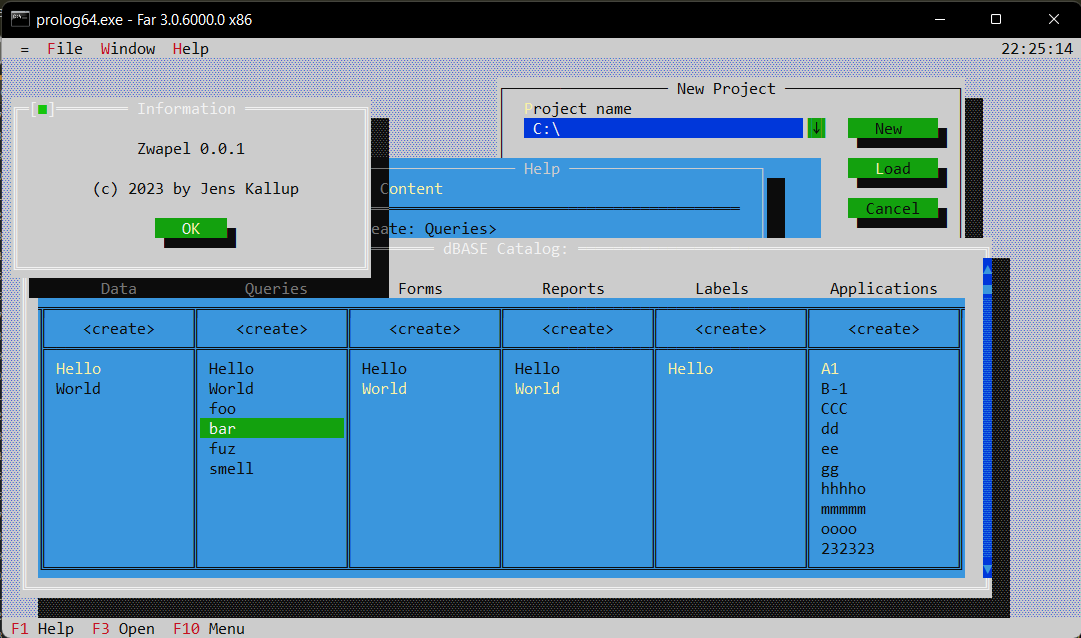
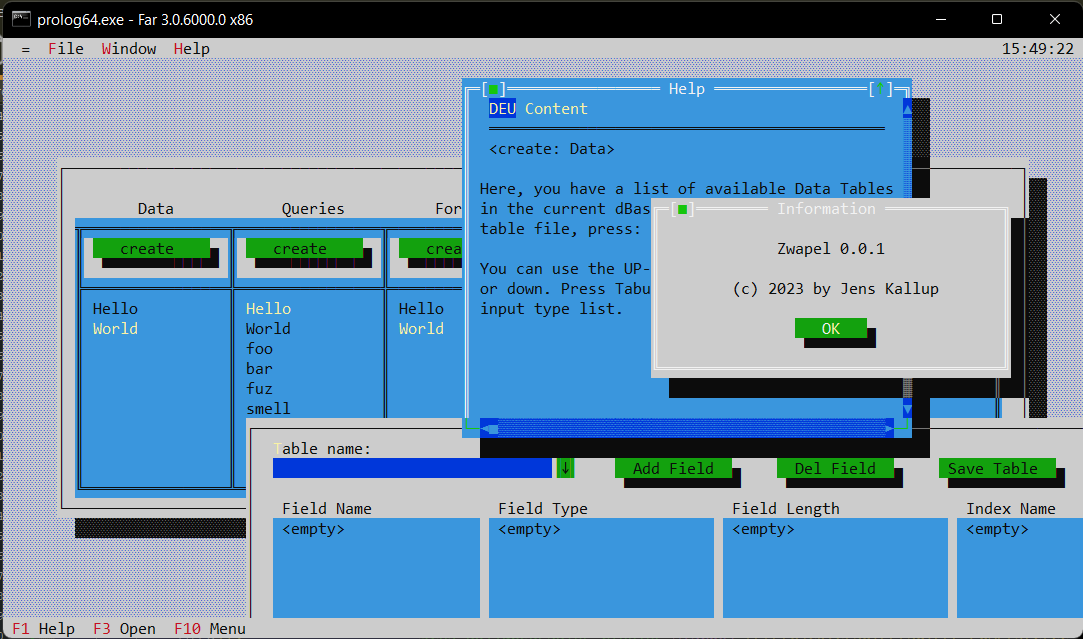
update

diff --git a/src/cc/prolog.cc b/src/cc/prolog.cc
@@ -531,6 +531,18 @@ const unsigned cmAppQuit            = 300;
 const unsigned cmLoadData           = 401;
 const unsigned cmNewData            = 402;
 
+const unsigned cmDBASE_data         = 500;
+const unsigned cmDBASE_query        = 501;
+const unsigned cmDBASE_form         = 502;
+const unsigned cmDBASE_report       = 503;
+const unsigned cmDBASE_label        = 504;
+const unsigned cmDBASE_app          = 505;
+
+const unsigned cmDBASE_add_field    = 506;
+const unsigned cmDBASE_del_field    = 507;
+const unsigned cmDBASE_sav_field    = 508;
+const unsigned cmDBASE_upd_field    = 509;
+
 const unsigned cmAsciiTableCmdBase  = 910;
 const unsigned cmAsciiTableCmd      = 911;
 const unsigned cmCharFocused        =   0;
@@ -1137,58 +1149,155 @@ public:
 
 			_writeChar(1,  2, 0xc9, c, 1);
 			_writeChar(2,  2, 0xcd, c, (17*6) );
-			_writeChar(2,  4, 0xcd, c, (17*6) );
+			_writeChar(2,  5, 0xcd, c, (17*6) );
 			_writeChar(2, 15, 0xcd, c, (17*6) );
 			
 			// data
 			_writeChar(x,  15, 0xc8, c, 1);
 			_writeChar(x,   2, 0xcb, c, 1);
 			_writeChar(x,   3, 0xba, c, y, true);
-			_writeInit(x+1, 3, c);
-			_writeChar(x,   4, 0xcc, c, 1); x += 17;
+			//_writeInit(x+1, 3, c);
+			_writeChar(x,   5, 0xcc, c, 1); x += 17;
 
 			// queries
 			_writeChar(x,  15, 0xca, c, 1);
 			_writeChar(x,   2, 0xcb, c, 1);
 			_writeChar(x,   3, 0xba, c, y, true);
-			_writeInit(x+1, 3, c);
-			_writeChar(x,   4, 0xce, c, 1); x += 17;
+			//_writeInit(x+1, 3, c);
+			_writeChar(x,   5, 0xce, c, 1); x += 17;
 
 			// forms
 			_writeChar(x,  15, 0xca, c, 1);
 			_writeChar(x,   2, 0xcb, c, 1);
 			_writeChar(x,   3, 0xba, c, y, true);
-			_writeInit(x+1, 3, c);
-			_writeChar(x,   4, 0xce, c, 1); x += 17;
+			//_writeInit(x+1, 3, c);
+			_writeChar(x,   5, 0xce, c, 1); x += 17;
 			
 			// reports
 			_writeChar(x,  15, 0xca, c, 1);
 			_writeChar(x,   2, 0xcb, c, 1);
 			_writeChar(x,   3, 0xba, c, y, true);
-			_writeInit(x+1, 3, c);
-			_writeChar(x,   4, 0xce, c, 1); x += 17;
+			//_writeInit(x+1, 3, c);
+			_writeChar(x,   5, 0xce, c, 1); x += 17;
 			
 			// labels
 			_writeChar(x,  15, 0xca, c, 1);
 			_writeChar(x,   2, 0xcb, c, 1);
 			_writeChar(x,   3, 0xba, c, y, true);
-			_writeInit(x+1, 3, c);
-			_writeChar(x,   4, 0xce, c, 1); x += 17;
+			//_writeInit(x+1, 3, c);
+			_writeChar(x,   5, 0xce, c, 1); x += 17;
 			
 			// applications
 			_writeChar(x,  15, 0xca, c, 1);
 			_writeChar(x,   2, 0xcb, c, 1);
 			_writeChar(x,   3, 0xba, c, y, true);
-			_writeInit(x+1, 3, c);
-			_writeChar(x,   4, 0xce, c, 1); x += 17;
+			//_writeInit(x+1, 3, c);
+			_writeChar(x,   5, 0xce, c, 1); x += 17;
 			
 			_writeChar(x, 15, 0xbc, c, 1);
 			_writeChar(x,  2, 0xcb, c, 1);
 			_writeChar(x,  3, 0xba, c, y, true);
-			_writeChar(x,  4, 0xb9, c, 1);
+			_writeChar(x,  5, 0xb9, c, 1);
 		}
 	};
 
+	class PL_dBaseNewFile: public TDialog {
+	private:
+		TListBox * lb_1 = nullptr;
+		TListBox * lb_2 = nullptr;
+		TListBox * lb_3 = nullptr;
+		TListBox * lb_4 = nullptr;
+		
+		void init()
+		{
+			flags &= ~(wfGrow | wfZoom);
+			growMode = 0;
+			
+			eventMask = evMouseDown | evKeyboard | evCommand | evBroadcast;
+			
+			options |= ofCentered;
+			options |= ofSelectable;
+
+			TInputLine *control = new TInputLine( TRect( 3,2, 34,3), 128);
+			insert(control);
+			insert( new TLabel  ( TRect(  2,1, 15, 2 ), "~T~able name:", control));
+			insert( new THistory( TRect( 34,2, 37, 3 ), control, 10));
+			
+			TScrollBar * sb_1 = standardScrollBar( sbVertical | sbHandleKeyboard );
+			TScrollBar * sb_2 = standardScrollBar( sbVertical | sbHandleKeyboard );
+			TScrollBar * sb_3 = standardScrollBar( sbVertical | sbHandleKeyboard );
+			TScrollBar * sb_4 = standardScrollBar( sbVertical | sbHandleKeyboard );
+
+			int x =  3;
+			int y = 15;
+			
+			lb_1 = new TListBox( TRect(x,5,     26, y ), 1, sb_1 ); x += 24;
+			lb_2 = new TListBox( TRect(x,5, x + 25, y ), 1, sb_2 ); x += 26;
+			lb_3 = new TListBox( TRect(x,5, x + 25, y ), 1, sb_3 ); x += 26;
+			lb_4 = new TListBox( TRect(x,5, x + 25, y ), 1, sb_4 );
+			
+			x = 3;
+			
+			insert( new TLabel( TRect(x,4, x + 20,5 ), "Field Name"  , lb_1 )); x += 24;
+			insert( new TLabel( TRect(x,4, x + 20,5 ), "Field Type"  , lb_2 )); x += 26;
+			insert( new TLabel( TRect(x,4, x + 20,5 ), "Field Length", lb_3 )); x += 26;
+			insert( new TLabel( TRect(x,4, x + 20,5 ), "Index Name"  , lb_4 ));
+
+			insert( lb_1 );
+			insert( lb_2 );
+			insert( lb_3 );
+			insert( lb_4 );
+			
+			insert( new TButton ( TRect( 40,2, 55,4 ), "Add Field" , cmDBASE_add_field, bfDefault ));
+			insert( new TButton ( TRect( 58,2, 73,4 ), "Del Field" , cmDBASE_del_field, bfNormal  ));
+			insert( new TButton ( TRect( 76,2, 91,4 ), "Save Table", cmDBASE_sav_field, bfNormal  ));
+		}
+	public:
+		PL_dBaseNewFile(::std::string file_name):
+			TWindowInit( &PL_dBaseNewFile::initFrame ),
+			TDialog( TRect( 0,0, 108,18), "dBASE new file:"),
+			name("PL_dBaseNewFile") {
+			init();
+		}
+	
+		PL_dBaseNewFile(StreamableInit):
+			TWindowInit(0),
+			TDialog(streamableInit),
+			name("PL_dBaseNewFile") {
+			init();
+		}
+				
+		PL_dBaseNewFile():
+			TWindowInit(0),
+			TDialog(streamableInit),
+			name("PL_dBaseNewFile") {
+			init();
+		}
+		
+		~PL_dBaseNewFile()
+		{
+		}
+		
+		virtual void
+		handleEvent( TEvent &event )
+		{
+			TWindow::handleEvent( event );
+			clearEvent(event);
+		}
+
+	private:
+		virtual const char *streamableName() const
+		{ return name; }
+	protected:
+		virtual void write( opstream& os) { TWindow::write(os); }
+		virtual void* read( ipstream& is) { TWindow::read (is); return this; }
+	public:
+			   const char  * const name;
+		static TStreamable * build() {
+			return new PL_dBaseNewFile( streamableInit );
+		}
+	};
+	
 	class PL_dBaseCatalog: public TDialog {
 	private:
 		TListBox * lb_1 = nullptr;
@@ -1197,6 +1306,19 @@ public:
 		TListBox * lb_4 = nullptr;
 		TListBox * lb_5 = nullptr;
 		TListBox * lb_6 = nullptr;
+		
+		template <typename T1>
+		void createNewFileDialog(::std::string s)
+		{
+			auto  * d = new T1(s);
+			TView * p = TProgram::application->validView(d);
+			if (!p) {
+				::std::string sz;
+				sz = "Error:\nCould not create view.";
+				throw PL_Exception_Application( sz.c_str() );
+			}
+			TProgram::deskTop->insert(d);
+		}
 		
 		class LB_Collection: public TCollection {
 		public:
@@ -1210,6 +1332,7 @@ public:
 			virtual void *readItem( ipstream& ) { return 0; }
 			virtual void writeItem( void *, opstream& ) {}
 		};
+		
 		void init()
 		{
 			flags &= ~(wfGrow | wfZoom);
@@ -1272,12 +1395,12 @@ public:
 			lbc_6->insert( newStr("######") );
 			lbc_6->insert( newStr("qwerty") );
 			
-			lb_1 = new TListBox( TRect(x,6,   19, 16), 1, sb_1 ); x += 17;
-			lb_2 = new TListBox( TRect(x,6, x+16, 16), 1, sb_2 ); x += 17;
-			lb_3 = new TListBox( TRect(x,6, x+16, 16), 1, sb_3 ); x += 17;
-			lb_4 = new TListBox( TRect(x,6, x+16, 16), 1, sb_4 ); x += 17;
-			lb_5 = new TListBox( TRect(x,6, x+16, 16), 1, sb_5 ); x += 17;
-			lb_6 = new TListBox( TRect(x,6, x+16, 16), 1, sb_6 );
+			lb_1 = new TListBox( TRect(x,7,   19, 16), 1, sb_1 ); x += 17;
+			lb_2 = new TListBox( TRect(x,7, x+16, 16), 1, sb_2 ); x += 17;
+			lb_3 = new TListBox( TRect(x,7, x+16, 16), 1, sb_3 ); x += 17;
+			lb_4 = new TListBox( TRect(x,7, x+16, 16), 1, sb_4 ); x += 17;
+			lb_5 = new TListBox( TRect(x,7, x+16, 16), 1, sb_5 ); x += 17;
+			lb_6 = new TListBox( TRect(x,7, x+16, 16), 1, sb_6 );
 			
 			lb_1->eventMask = evMouseDown | evKeyDown | evCommand;
 
@@ -1288,6 +1411,15 @@ public:
 			insert(lb_1); insert(lb_2);
 			insert(lb_3); insert(lb_4);
 			insert(lb_5); insert(lb_6);
+			
+			x = 3;
+			
+			insert( new TButton ( TRect( x,4, x+15,6 ), "create", cmDBASE_data,   bfNormal )); x += 17;
+			insert( new TButton ( TRect( x,4, x+15,6 ), "create", cmDBASE_query,  bfNormal )); x += 17;
+			insert( new TButton ( TRect( x,4, x+15,6 ), "create", cmDBASE_form,   bfNormal )); x += 17;
+			insert( new TButton ( TRect( x,4, x+15,6 ), "create", cmDBASE_report, bfNormal )); x += 17;
+			insert( new TButton ( TRect( x,4, x+15,6 ), "create", cmDBASE_label,  bfNormal )); x += 17;
+			insert( new TButton ( TRect( x,4, x+15,6 ), "create", cmDBASE_app,    bfNormal ));
 		}
 	public:
 		PL_dBaseCatalog(::std::string file_name):
@@ -1372,7 +1504,6 @@ public:
 				}
 				if (event.keyDown.keyCode == 0x1c0d)  // #10 #13 key
 				{
-					clearEvent(event);
 					char buffer[MAX_LEN];
 					
 					if ((lb_1->state & sfFocused) != 0) { lb_1->getText(buffer, lb_1->focused, MAX_LEN); } else
@@ -1383,6 +1514,7 @@ public:
 					if ((lb_6->state & sfFocused) != 0) { lb_6->getText(buffer, lb_6->focused, MAX_LEN); }
 					
 					messageBox(buffer,mfInformation|mfOKButton);
+					clearEvent(event);
 				}
 			}
 			if (event.message.command == cmHelp)
@@ -1395,6 +1527,35 @@ public:
 				if ((lb_4->state & sfFocused) != 0) { handle_helpView( 4 ); } else
 				if ((lb_5->state & sfFocused) != 0) { handle_helpView( 5 ); } else
 				if ((lb_6->state & sfFocused) != 0) { handle_helpView( 6 ); }
+			}
+			else if (event.message.command == cmDBASE_data) {
+				clearEvent(event);
+				createNewFileDialog< PL_dBaseNewFile >("data");
+			}
+			else if (event.message.command == cmDBASE_query) {
+				clearEvent(event);
+				messageBox("dbase query",mfInformation|mfOKButton);
+				createNewFileDialog< PL_dBaseNewFile >("query");
+			}
+			else if (event.message.command == cmDBASE_form) {
+				clearEvent(event);
+				messageBox("dbase form",mfInformation|mfOKButton);
+				createNewFileDialog< PL_dBaseNewFile >("form");
+			}
+			else if (event.message.command == cmDBASE_report) {
+				clearEvent(event);
+				messageBox("dbase report",mfInformation|mfOKButton);
+				createNewFileDialog< PL_dBaseNewFile >("report");
+			}
+			else if (event.message.command == cmDBASE_label) {
+				clearEvent(event);
+				messageBox("dbase label",mfInformation|mfOKButton);
+				createNewFileDialog< PL_dBaseNewFile >("label");
+			}
+			else if (event.message.command == cmDBASE_app) {
+				clearEvent(event);
+				messageBox("dbase app",mfInformation|mfOKButton);
+				createNewFileDialog< PL_dBaseNewFile >("application");
 			}
 		}
 	private:
